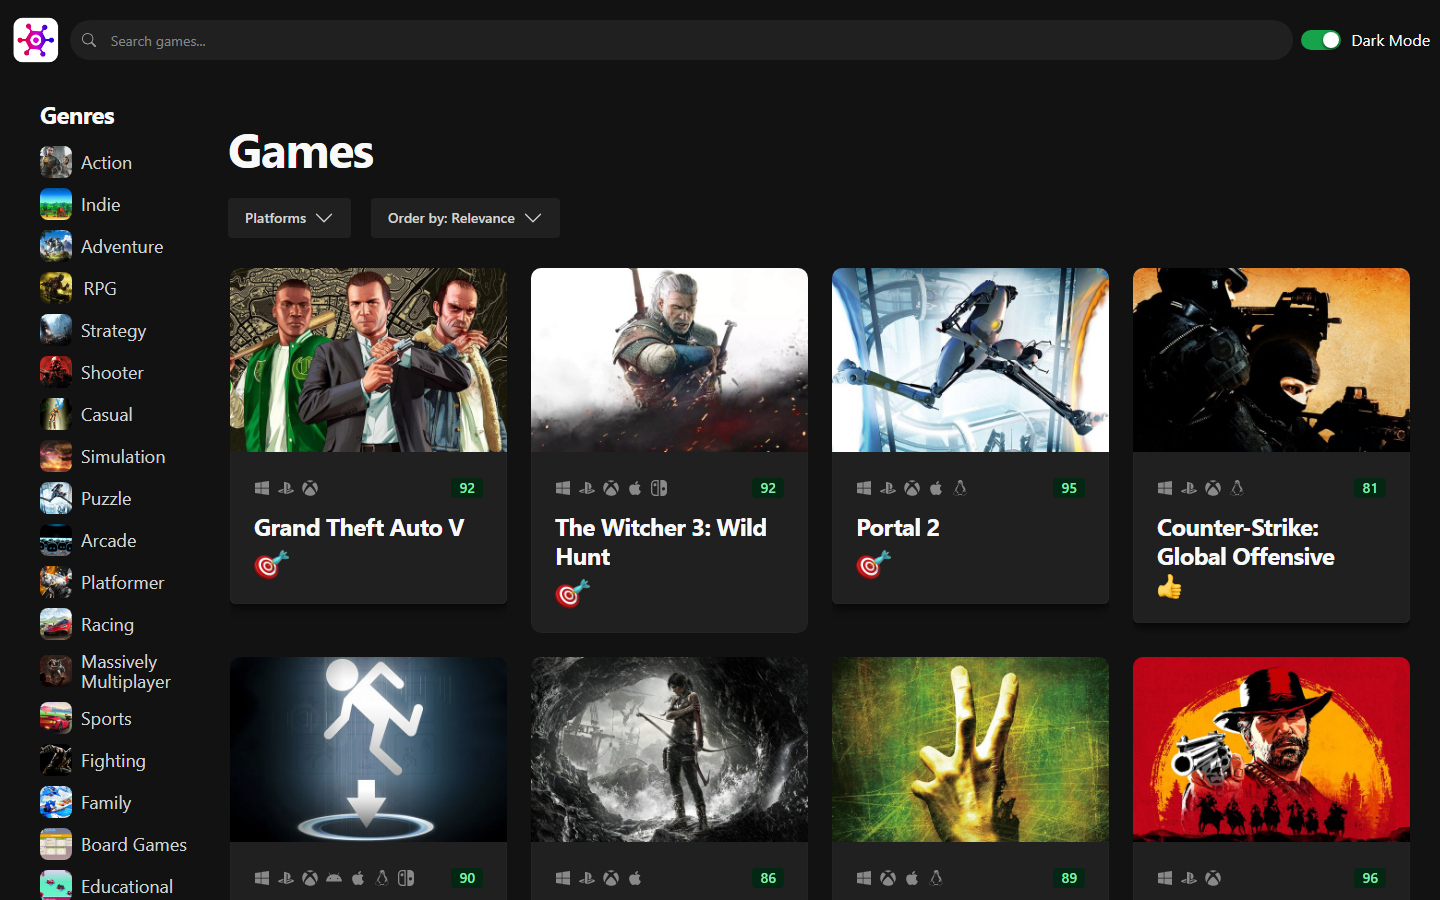
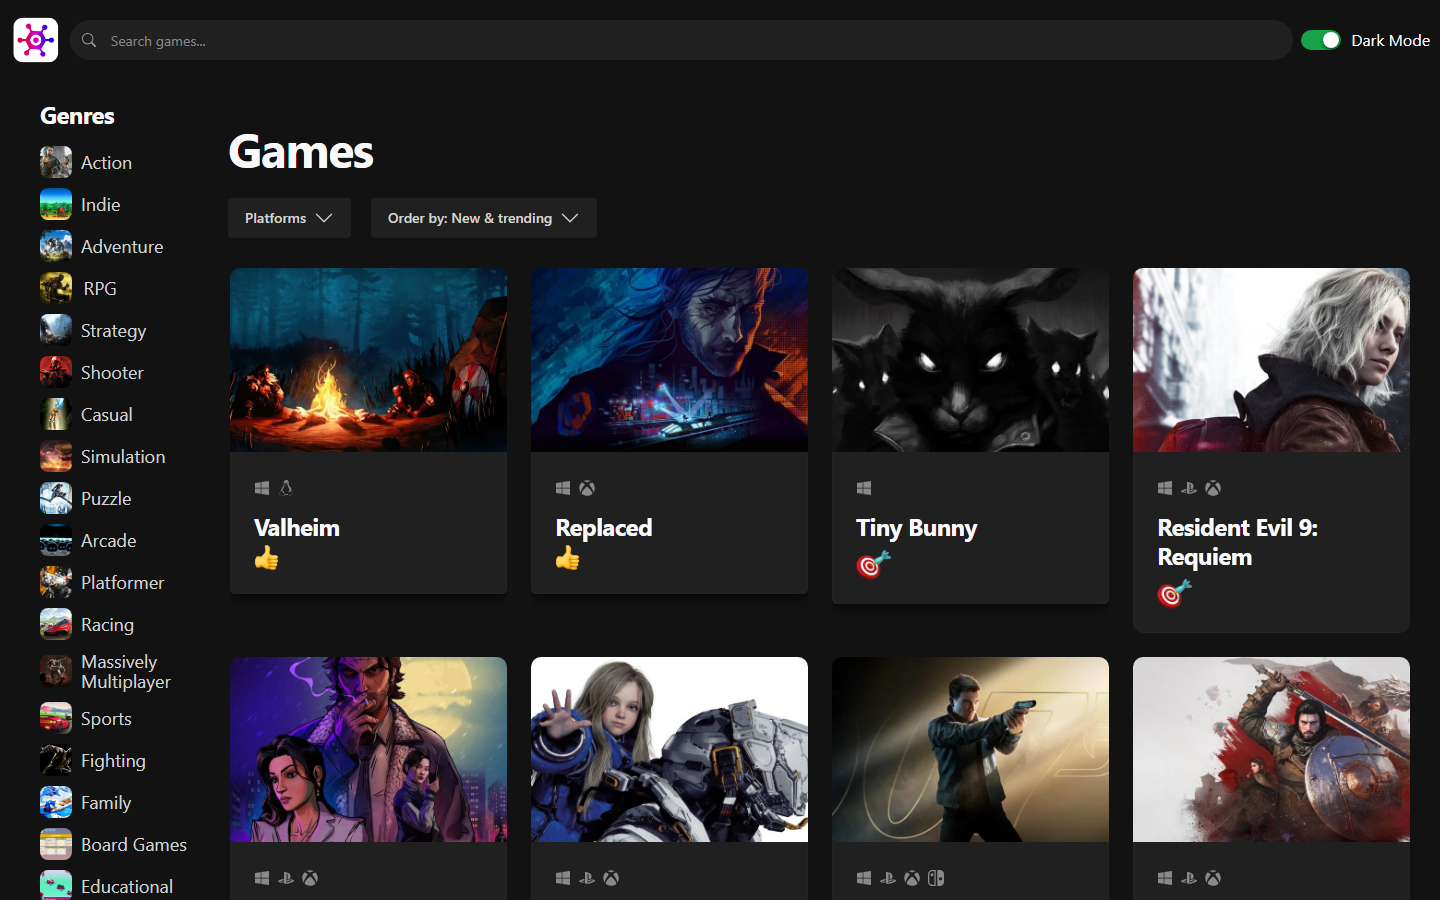
Default to New & trending: games released in the last 12 months
RAWG's default relevance ordering ranks all-time popular games first, so the
home page always opened on GTA V and Witcher 3. Searches still default to
relevance so they aren't limited to recent releases.

diff --git a/src/components/SortSelector.tsx b/src/components/SortSelector.tsx
@@ -1,27 +1,20 @@
 import {Button, Menu, Portal} from "@chakra-ui/react";
 import {BsChevronDown} from "react-icons/bs";
 import useGameQueryStore from "../store.ts";
+import {effectiveSortOrder, sortOrders} from "../services/sort-orders.ts";
 
 
 const SortSelector = () => {
-    const sortOrders = [
-        {value: "", label: "Relevance"},
-        {value: "-added", label: "Date added"},
-        {value: "name", label: "Name"},
-        {value: "-released", label: "Release date"},
-        {value: "-metacritic", label: "Popularity"},
-        {value: "-rating", label: "Average rating"},
-    ];
-
-    const sortOrder = useGameQueryStore(s => s.gameQuery.sortOrder)
+    const gameQuery = useGameQueryStore(s => s.gameQuery)
     const setSortOrder = useGameQueryStore(s => s.setSortOrder)
 
-    const currentSortOrder = sortOrders.find(order => order.value === sortOrder);
+    const current = effectiveSortOrder(gameQuery)
+    const currentSortOrder = sortOrders.find(order => order.value === current);
 
     return (
         <Menu.Root>
             <Menu.Trigger asChild>
-                <Button variant='subtle'>Order by: {currentSortOrder?.label || 'Relevance'} <BsChevronDown/></Button>
+                <Button variant='subtle'>Order by: {currentSortOrder?.label} <BsChevronDown/></Button>
             </Menu.Trigger>
             <Portal>
                 <Menu.Positioner>

diff --git a/src/services/sort-orders.ts b/src/services/sort-orders.ts
@@ -1,0 +1,35 @@
+import {GameQuery} from "../store.ts";
+
+export interface SortOrder {
+    value: string;
+    label: string;
+}
+
+export const NEW_AND_TRENDING = 'new'
+
+export const sortOrders: SortOrder[] = [
+    {value: NEW_AND_TRENDING, label: "New & trending"},
+    {value: "", label: "Relevance"},
+    {value: "-added", label: "Date added"},
+    {value: "name", label: "Name"},
+    {value: "-released", label: "Release date"},
+    {value: "-metacritic", label: "Popularity"},
+    {value: "-rating", label: "Average rating"},
+];
+
+// With no explicit choice, browse shows what's new; a search ranks by relevance
+// (a 12-month window would hide most search hits, e.g. "portal").
+export const effectiveSortOrder = ({sortOrder, searchText}: GameQuery): string =>
+    sortOrder ?? (searchText ? '' : NEW_AND_TRENDING)
+
+const isoDate = (d: Date) => d.toISOString().slice(0, 10)
+
+// RAWG query params for a sort order value
+export const sortParams = (value: string) => {
+    if (value !== NEW_AND_TRENDING) return {ordering: value || undefined}
+    // Released in the last 12 months, most added (by RAWG users) first
+    const today = new Date()
+    const yearAgo = new Date(today)
+    yearAgo.setFullYear(today.getFullYear() - 1)
+    return {ordering: '-added', dates: `${isoDate(yearAgo)},${isoDate(today)}`}
+}

diff --git a/src/hooks/useGames.ts b/src/hooks/useGames.ts
@@ -2,6 +2,7 @@ import useGameQueryStore from "../store.ts";
 import {useInfiniteQuery} from "@tanstack/react-query";
 import ApiClient from "../services/api-client.ts";
 import {Game} from "../entities/Game.ts";
+import {effectiveSortOrder, sortParams} from "../services/sort-orders.ts";
 
 
 const apiClient = new ApiClient<Game>('/games')
@@ -14,7 +15,7 @@ const useGames = () => {
                 params: {
                     genres: gameQuery.genreId,
                     parent_platforms: gameQuery.platformId,
-                    ordering: gameQuery.sortOrder,
+                    ...sortParams(effectiveSortOrder(gameQuery)),
                     search: gameQuery.searchText,
                     page: pageParam
                 }

diff --git a/README.md b/README.md
@@ -9,6 +9,7 @@ Browse, search and filter thousands of video games, using data from the [RAWG Vi
 ## Features
 
 - **Infinite scrolling** game grid with cover art, platform icons, Metacritic score and a rating emoji
+- Opens on **New & trending**: games released in the last 12 months, most popular first
 - **Filter** by genre and platform, **sort** by relevance, date added, name, release date, popularity or average rating
 - **Search** games by name
 - **Game detail page** with an expandable description, platforms, genres, publishers, a trailer (when available) and screenshots
